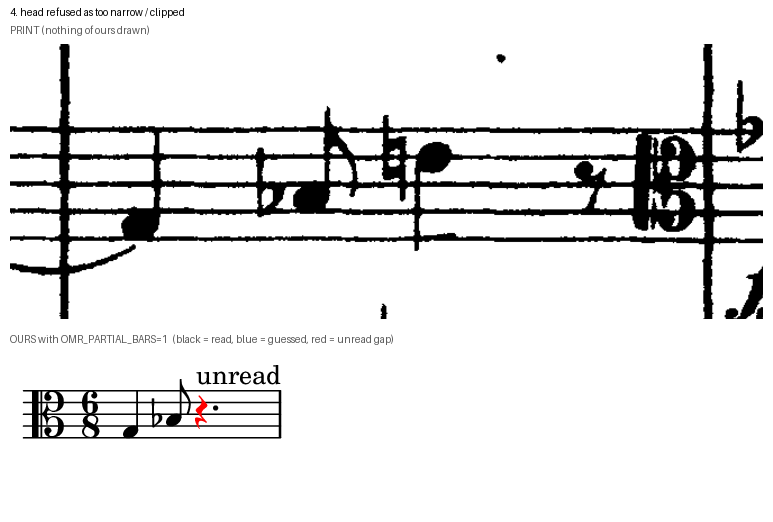
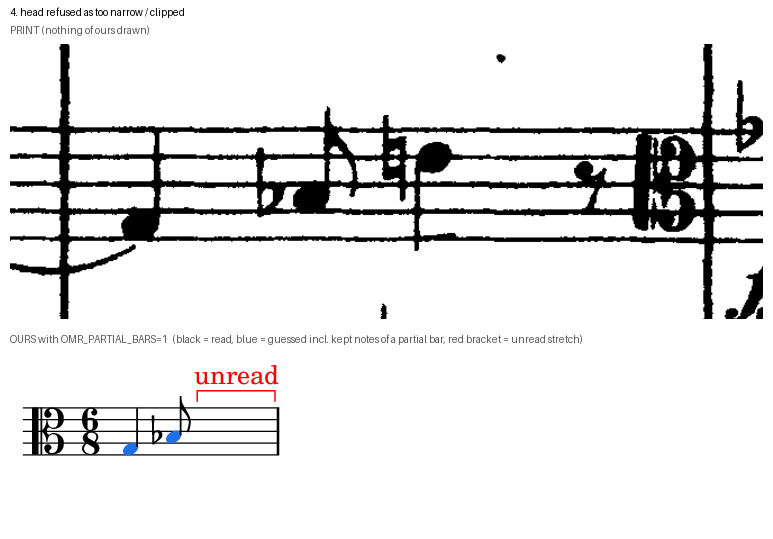
2.117: re-cut 8 crops (red bracket, blue kept notes, long gap); crops.py legend

diff --git a/benchmarks/omr-partial-bars-2026-10/probe/crops.py b/benchmarks/omr-partial-bars-2026-10/probe/crops.py
@@ -4,8 +4,9 @@ OUR LilyPond-rendered bar with `OMR_PARTIAL_BARS=1`.
 usage: crops.py RECORD PDF EXPORT_DIR OUT_DIR
   EXPORT_DIR holds on.bars.json + on.lilybars.json from the export run.
 
-Legend (also written on every image): black = read, blue = guessed,
-red = unread gap (nothing invented). One tile per bar; the last tile is a bar
+Legend (also written on every image): black = read, blue = guessed
+(including every kept note of a partial bar), red bracket = unread stretch
+(nothing invented; no rest drawn there). One tile per bar; the last tile is a bar
 that STAYS held (its whole bar is red `unread`).
 
 Frame control (it can fail): the five staff lines the record filed for the
@@ -25,6 +26,7 @@ from PIL import Image, ImageDraw
 sys.path.insert(0, ".")
 from tools.omr.preprocessing import render_page  # noqa: E402
 from tools.omr.staged.record_io import load_record  # noqa: E402
+from tools.omr.staged import export as SX  # noqa: E402
 
 REC, PDF, EXP, OUT = sys.argv[1], sys.argv[2], Path(sys.argv[3]), Path(sys.argv[4])
 OUT.mkdir(parents=True, exist_ok=True)
@@ -76,6 +78,8 @@ def pick():
     take(lambda b: refused(b) and not beam(b), "head refused as too narrow / clipped", 2)
     take(lambda b: suffix_only(b), "suffix only (the gap opens the bar)", 1)
     take(lambda b: prefix_only(b), "prefix only (the gap closes the bar)", 1)
+    take(lambda b: b["gap_quarters"] and b["gap_quarters"] >= 2.0,
+         "LONG gap (2+ beats unread)", 1)
     held = [b for b in bars if b["status"] == "held"
             and b["why"] == "short_without_an_unread_symbol"
             and not b["two_voice"] and 3 <= b["events"] <= 7
@@ -99,7 +103,8 @@ def our_bar_png(b, entry, held, work):
     else:
         body = entry["text"]
         clef = CLEF.get(entry["clef"] or "treble", "treble")
-    ly = ('\\version "2.24.0"\n\\header { tagline = ##f }\n'
+    ly = ('\\version "2.24.0"\n' + f"guessedColor = #{SX.GUESS_COLOR_LILY}\n"
+          '\\header { tagline = ##f }\n'
           '\\paper { indent = 0 \\mm  paper-width = 90\\mm  page-breaking = #ly:one-line-breaking }\n'
           '\\layout { \\context { \\Score \\remove "Bar_number_engraver" } }\n'
           f'\\new Staff {{ \\clef {clef} \\time {n}/{d} {body} }}\n')
@@ -156,8 +161,8 @@ for n, (b, label) in enumerate(chosen, 1):
     dr.text((10, 24), "PRINT (nothing of ours drawn)", fill=(90, 90, 90))
     canvas.paste(print_crop, (10, 44))
     yo = 44 + print_crop.height + 14
-    dr.text((10, yo), "OURS with OMR_PARTIAL_BARS=1  (black = read, blue = guessed, "
-                      "red = unread gap)", fill=(90, 90, 90))
+    dr.text((10, yo), "OURS with OMR_PARTIAL_BARS=1  (black = read, blue = guessed incl. kept "
+                      "notes of a partial bar, red bracket = unread stretch)", fill=(90, 90, 90))
     canvas.paste(ours, (10, yo + 20))
     name = f"{n}-p{b['page']}-s{b['system']}-staff{b['staff']}-cell{b['cell']}.png"
     canvas.save(OUT / name)
